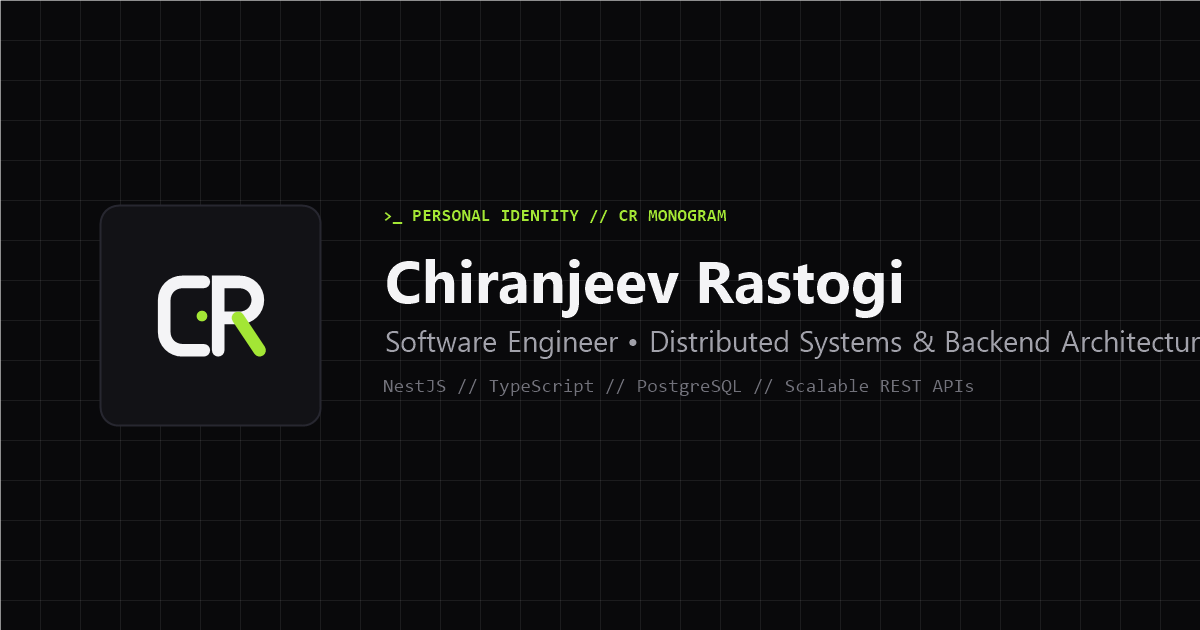
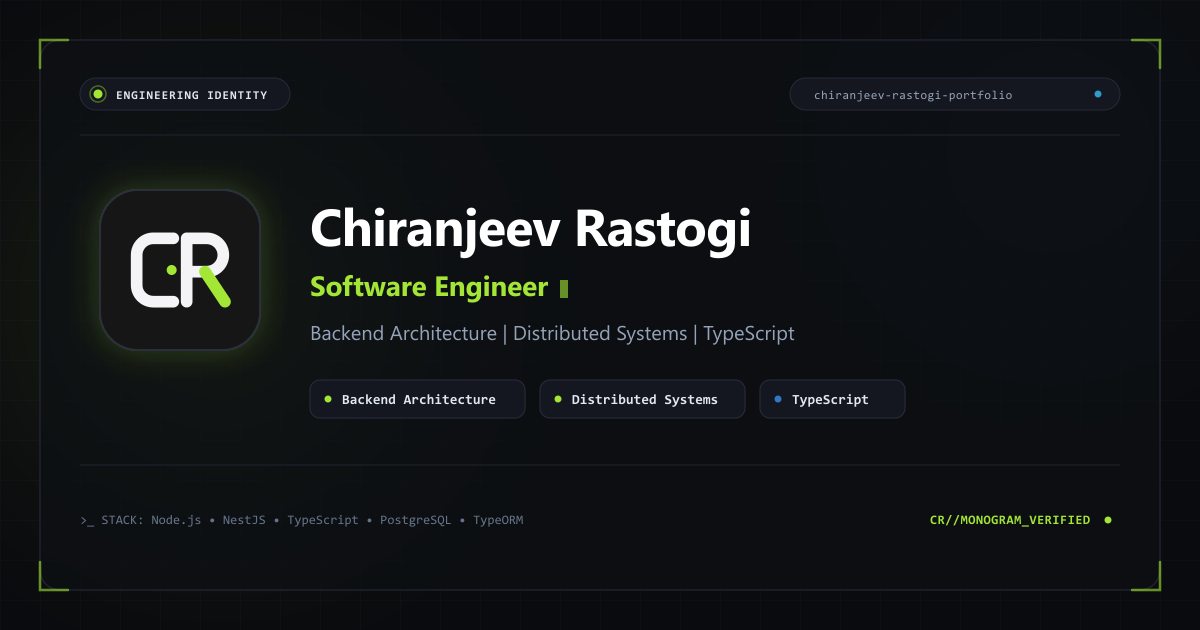
fix(branding): update social preview and consolidate profile image

diff --git a/src/app/layout.tsx b/src/app/layout.tsx
@@ -52,9 +52,10 @@ export const metadata: Metadata = {
       "Software Engineer building scalable backend systems, distributed architectures, and modern web applications with Node.js, NestJS, and TypeScript.",
     images: [
       {
-        url: "/images/og-image.png",
+        url: "/images/og-image-v2.png",
         width: 1200,
         height: 630,
+        type: "image/png",
         alt: `${site.name} — Personal Brand Identity (CR Monogram)`,
       },
     ],
@@ -64,7 +65,7 @@ export const metadata: Metadata = {
     title: `${site.name} — Software Engineer`,
     description:
       "Software Engineer building scalable backend systems, distributed architectures, and modern web applications with Node.js, NestJS, and TypeScript.",
-    images: ["/images/og-image.png"],
+    images: ["/images/og-image-v2.png"],
   },
   icons: {
     icon: [
@@ -102,7 +103,7 @@ const jsonLd = {
   ...(siteUrl
     ? {
         url: siteUrl,
-        image: `${siteUrl}/images/og-image.png`,
+        image: `${siteUrl}/images/avatar.jpg`,
       }
     : {}),
   sameAs: [

diff --git a/src/app/page.tsx b/src/app/page.tsx
@@ -18,6 +18,22 @@ export const metadata: Metadata = {
           description:
             "Portfolio boot sequence of Chiranjeev Rastogi — Node.js Backend Developer specializing in NestJS, TypeScript, PostgreSQL, TypeORM, and distributed REST API systems.",
           url: canonicalUrl,
+          images: [
+            {
+              url: "/images/og-image-v2.png",
+              width: 1200,
+              height: 630,
+              type: "image/png",
+              alt: "Chiranjeev Rastogi — Personal Brand Identity (CR Monogram)",
+            },
+          ],
+        },
+        twitter: {
+          card: "summary_large_image",
+          title: "Chiranjeev Rastogi | Node.js Backend Developer",
+          description:
+            "Portfolio boot sequence of Chiranjeev Rastogi — Node.js Backend Developer specializing in NestJS, TypeScript, PostgreSQL, TypeORM, and distributed REST API systems.",
+          images: ["/images/og-image-v2.png"],
         },
       }
     : {}),

diff --git a/src/app/portfolio/page.tsx b/src/app/portfolio/page.tsx
@@ -34,6 +34,15 @@ export const metadata: Metadata = {
           description:
             "Explore the full engineering portfolio of Chiranjeev Rastogi: Node.js, NestJS, and PostgreSQL case studies, technical skills taxonomy, internship experience, and education.",
           url: canonicalUrl,
+          images: [
+            {
+              url: "/images/og-image-v2.png",
+              width: 1200,
+              height: 630,
+              type: "image/png",
+              alt: "Chiranjeev Rastogi — Main Portfolio",
+            },
+          ],
         },
       }
     : {}),
@@ -42,6 +51,7 @@ export const metadata: Metadata = {
     title: "Main Portfolio | Chiranjeev Rastogi",
     description:
       "Explore the full engineering portfolio of Chiranjeev Rastogi: Node.js, NestJS, and PostgreSQL case studies, technical skills taxonomy, internship experience, and education.",
+    images: ["/images/og-image-v2.png"],
   },
 };
 

diff --git a/src/app/projects/[slug]/page.tsx b/src/app/projects/[slug]/page.tsx
@@ -51,7 +51,7 @@ export async function generateMetadata({ params }: PageProps): Promise<Metadata>
       ...(canonicalUrl ? { url: canonicalUrl } : {}),
       images: [
         {
-          url: project.coverImage || project.thumbnail || "/images/og-image.png",
+          url: project.coverImage || project.thumbnail || "/images/og-image-v2.png",
           width: 2560,
           height: 1440,
           alt: project.coverImageAlt || `${project.title} Cover`,
@@ -62,7 +62,7 @@ export async function generateMetadata({ params }: PageProps): Promise<Metadata>
       card: "summary_large_image",
       title: `${project.title} — Technical Case Study | Chiranjeev Rastogi`,
       description: project.shortDescription,
-      images: [project.coverImage || project.thumbnail || "/images/og-image.png"],
+      images: [project.coverImage || project.thumbnail || "/images/og-image-v2.png"],
     },
   };
 }

diff --git a/src/components/portfolio/PortfolioHero.tsx b/src/components/portfolio/PortfolioHero.tsx
@@ -324,7 +324,7 @@ export function PortfolioHero({
               className="w-[240px] sm:w-[300px] lg:w-[350px] xl:w-[390px] h-[340px] sm:h-[420px] lg:h-[470px] xl:h-[510px] shrink-0 relative rounded-2xl overflow-hidden border border-[var(--border-subtle)] bg-[var(--bg-surface)] shadow-2xl group will-change-transform"
             >
               <Image
-                src="/images/chiranjeev-portrait.jpg"
+                src="/images/avatar.jpg"
                 alt={name}
                 fill
                 priority
